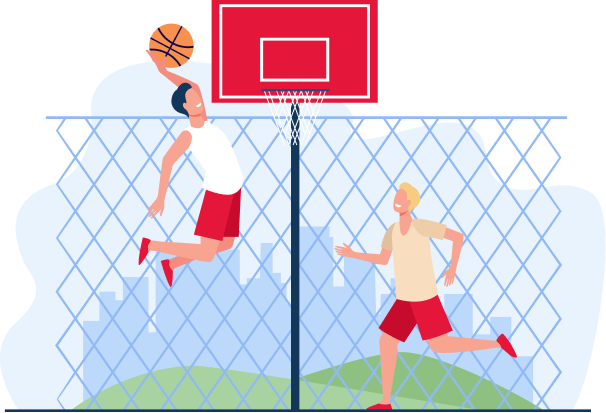
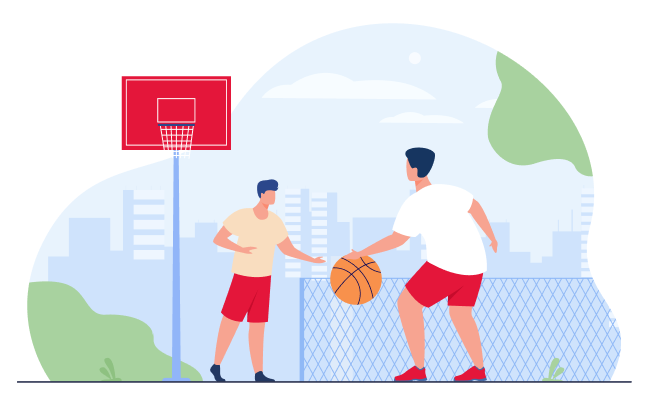
Register page init

diff --git a/src/pages/Login/Login.tsx b/src/pages/Login/Login.tsx
@@ -1,19 +1,20 @@
 import React, { FC } from "react";
-import { Link } from "@/components/UI/Link";
-import { Input } from "@/components/UI/Input";
-import { Button } from "@/components/UI/Button";
-import { Password } from "@/components/UI/Password";
+import { AuthLayout } from "@/layouts/AuthLayout";
 import { Typography } from "@/components/UI/Typography";
+import { Input } from "@/components/UI/Input";
+import { Password } from "@/components/UI/Password";
+import { Button } from "@/components/UI/Button";
+import { Link } from "@/components/UI/Link";
+import { yupResolver } from "@hookform/resolvers/yup";
 import { SubmitHandler, useForm, Controller } from "react-hook-form";
 import { addNotification } from "@/store/reducers/notificationReducer";
 import { validationSchema } from "@/pages/Login/schema";
-import { yupResolver } from "@hookform/resolvers/yup";
 import { ILoginRequest } from "@/models/ILogin";
 import { useNavigate } from "react-router-dom";
 import { useAppDispatch } from "@/hooks";
 import { login } from "@/api/login";
 import { AxiosError } from "axios";
-import Banner from "@/assets/image/im-sign-up-banner.png";
+import Banner from "@/assets/image/im-sign-in-banner.png";
 import styles from "./Login.module.sass";
 
 export const Login: FC = () => {
@@ -53,48 +54,43 @@ export const Login: FC = () => {
     };
 
     return (
-        <div className={styles.auth}>
-            <div className={styles.left}>
-                <form className={styles.form} onSubmit={handleSubmit(onSubmit)}>
-                    <Typography tag="h1" size="large" className={styles.title}>Sign In</Typography>
-                    <Controller
-                        control={control}
-                        name="login"
-                        render={({ field: { onChange, value }, fieldState: { error } }) => (
-                            <Input
-                                label="Login"
-                                value={value}
-                                onChange={onChange}
-                                className={styles.input}
-                                error={error?.message}
-                                fullWidth
-                            />
-                        )}
-                    />
-                    <Controller
-                        control={control}
-                        name="password"
-                        render={({ field: { onChange, value }, fieldState: { error } }) => (
-                            <Password
-                                label="Password"
-                                value={value}
-                                onChange={onChange}
-                                className={styles.input}
-                                error={error?.message}
-                                fullWidth
-                            />
-                        )}
-                    />
-                    <Button type="submit" fullWidth>Sign In</Button>
-                    <div className={styles.bottom}>
-                        <Typography className={styles.typography} color="secondary">Not a member yet?</Typography>
-                        <Link className={styles.link} to="/register">Sign up</Link>
-                    </div>
-                </form>
-            </div>
-            <div className={styles.right}>
-                <img className={styles.banner} src={Banner} alt="Banner"/>
-            </div>
-        </div>
+        <AuthLayout image={Banner}>
+            <form className={styles.form} onSubmit={handleSubmit(onSubmit)}>
+                <Typography tag="h1" size="large" className={styles.title}>Sign In</Typography>
+                <Controller
+                    control={control}
+                    name="login"
+                    render={({ field: { onChange, value }, fieldState: { error } }) => (
+                        <Input
+                            label="Login"
+                            value={value}
+                            onChange={onChange}
+                            className={styles.input}
+                            error={error?.message}
+                            fullWidth
+                        />
+                    )}
+                />
+                <Controller
+                    control={control}
+                    name="password"
+                    render={({ field: { onChange, value }, fieldState: { error } }) => (
+                        <Password
+                            label="Password"
+                            value={value}
+                            onChange={onChange}
+                            className={styles.input}
+                            error={error?.message}
+                            fullWidth
+                        />
+                    )}
+                />
+                <Button type="submit" fullWidth>Sign In</Button>
+                <div className={styles.bottom}>
+                    <Typography className={styles.typography} color="secondary">Not a member yet?</Typography>
+                    <Link className={styles.link} to="/register">Sign up</Link>
+                </div>
+            </form>
+        </AuthLayout>
     );
 };

diff --git a/src/pages/Register/Register.tsx b/src/pages/Register/Register.tsx
@@ -1,7 +1,113 @@
 import React, { FC } from "react";
+import { AuthLayout } from "@/layouts/AuthLayout";
+import { Typography } from "@/components/UI/Typography";
+import { Controller, SubmitHandler, useForm } from "react-hook-form";
+import { Input } from "@/components/UI/Input";
+import { Password } from "@/components/UI/Password";
+import { Button } from "@/components/UI/Button";
+import { Checkbox } from "@/components/UI/Checkbox";
+import { Link } from "@/components/UI/Link";
+import { yupResolver } from "@hookform/resolvers/yup";
+import { validationSchema } from "./schema";
+import { IRegisterFields } from "@/models/IRegister";
+import Banner from "@/assets/image/im-sign-up-banner.png";
+import styles from "./Register.module.sass";
 
-export const Register: FC = () => (
-    <div>
-        Register
-    </div>
-);
+export const Register: FC = () => {
+    const { control, handleSubmit } = useForm<IRegisterFields>({
+        resolver: yupResolver(validationSchema),
+        defaultValues: {
+            userName: "",
+            login: "",
+            password: "",
+            confirmPassword: "",
+            agreement: false
+        }
+    });
+
+    const onSubmit: SubmitHandler<IRegisterFields> = data => {
+        console.log(data);
+    };
+    
+    return (
+        <AuthLayout image={Banner}>
+            <form className={styles.form} onSubmit={handleSubmit(onSubmit)}>
+                <Typography tag="h1" size="large" className={styles.title}>Sign Up</Typography>
+                <Controller
+                    control={control}
+                    name="userName"
+                    render={({ field: { onChange, value }, fieldState: { error } }) => (
+                        <Input
+                            label="Name"
+                            value={value}
+                            onChange={onChange}
+                            className={styles.input}
+                            error={error?.message}
+                            fullWidth
+                        />
+                    )}
+                />
+                <Controller
+                    control={control}
+                    name="login"
+                    render={({ field: { onChange, value }, fieldState: { error } }) => (
+                        <Input
+                            label="Login"
+                            value={value}
+                            onChange={onChange}
+                            className={styles.input}
+                            error={error?.message}
+                            fullWidth
+                        />
+                    )}
+                />
+                <Controller
+                    control={control}
+                    name="password"
+                    render={({ field: { onChange, value }, fieldState: { error } }) => (
+                        <Password
+                            label="Password"
+                            value={value}
+                            onChange={onChange}
+                            className={styles.input}
+                            error={error?.message}
+                            fullWidth
+                        />
+                    )}
+                />
+                <Controller
+                    control={control}
+                    name="confirmPassword"
+                    render={({ field: { onChange, value }, fieldState: { error } }) => (
+                        <Password
+                            label="Enter your password again"
+                            value={value}
+                            onChange={onChange}
+                            className={styles.input}
+                            error={error?.message}
+                            fullWidth
+                        />
+                    )}
+                />
+                <Controller
+                    control={control}
+                    name="agreement"
+                    render={({ field: { onChange, value }, fieldState: { error } }) => (
+                        <Checkbox
+                            label="I accept the agreement"
+                            value={value}
+                            onChange={onChange}
+                            className={styles.checkbox}
+                            error={error?.message}
+                        />
+                    )}
+                />
+                <Button type="submit" fullWidth>Sign Up</Button>
+                <div className={styles.bottom}>
+                    <Typography className={styles.typography} color="secondary">Already a member?</Typography>
+                    <Link className={styles.link} to="/login">Sign in</Link>
+                </div>
+            </form>
+        </AuthLayout>
+    );
+};

diff --git a/src/pages/Register/schema.ts b/src/pages/Register/schema.ts
@@ -1,0 +1,25 @@
+import * as Yup from "yup";
+import { IRegisterFields } from "@/models/IRegister";
+
+export const validationSchema = Yup.object<Record<keyof IRegisterFields, Yup.AnySchema>>({
+    login: Yup.string()
+        .trim()
+        .required("Required")
+        .matches(/^[a-zA-Z]+$/, "Invalid character entered")
+        .min(5, "Login must be at least 5 characters")
+        .max(24, "Login must be at most 24 characters"),
+    password: Yup.string()
+        .trim()
+        .required("Required")
+        .matches(/^[a-zA-Z0-9]+$/, "Invalid character entered")
+        .min(5, "Password must be at least 5 characters")
+        .max(24, "Password must be at most 24 characters"),
+    confirmPassword: Yup.string()
+        .oneOf([Yup.ref("password"), null], "Passwords must match"),
+    userName: Yup.string()
+        .required("Required")
+        .min(5, "Name must be at least 5 characters")
+        .max(24, "Name must be at most 24 characters"),
+    agreement: Yup.boolean()
+        .oneOf([true], "You must be accept the agreement")
+});

diff --git a/src/components/UI/Checkbox/Checkbox.tsx b/src/components/UI/Checkbox/Checkbox.tsx
@@ -6,13 +6,17 @@ interface Props {
     label: string
     value: boolean
     onChange: React.ChangeEventHandler<HTMLInputElement>
+    className?: string
+
+    // all other props
+    [x: string]: any
 }
 
 export const Checkbox: FC<Props> = (props) => {
-    const { label, value, onChange } = props;
+    const { label, value, onChange, className, ...rest } = props;
     
     return (
-        <label className={styles.checkbox}>
+        <label className={classNames(styles.checkbox, className)} {...rest}>
             <span className={classNames(styles.mark, { [styles.checked]: value })}/>
             <input type="checkbox" checked={value} onChange={onChange} />
             {label}

diff --git a/src/layouts/AuthLayout/AuthLayout.tsx b/src/layouts/AuthLayout/AuthLayout.tsx
@@ -1,0 +1,22 @@
+import React, { FC } from "react";
+import styles from "./AuthLayout.module.sass";
+
+interface Props {
+    image: string
+    children: React.ReactNode
+}
+
+export const AuthLayout: FC<Props> = (props) => {
+    const { image, children } = props;
+
+    return (
+        <div className={styles.auth}>
+            <div className={styles.left}>
+                {children}
+            </div>
+            <div className={styles.right}>
+                <img className={styles.banner} src={image} alt="banner"/>
+            </div>
+        </div>
+    );
+};

diff --git a/src/layouts/AuthLayout/AuthLayout.module.sass b/src/layouts/AuthLayout/AuthLayout.module.sass
@@ -1,0 +1,29 @@
+@import "@/styles/sass/index.sass"
+
+.auth
+  display: flex
+  width: 100%
+  height: 100vh
+
+.left
+  display: flex
+  padding: 0 120px
+  align-items: center
+  justify-content: center
+  +breakpointDown($device--desktop-l)
+    width: 100%
+    padding: 0 20px
+
+.right
+  flex-grow: 1
+  display: flex
+  align-items: center
+  justify-content: center
+  background-color: $light-blue
+  +breakpointDown($device--desktop-l)
+    display: none
+
+.banner
+  display: block
+  max-width: 600px
+  margin: 0 40px

diff --git a/src/models/IRegister.ts b/src/models/IRegister.ts
@@ -1,0 +1,22 @@
+interface IRegisterRequest {
+    userName: string
+    login: string
+    password: string
+}
+
+interface IRegisterResponse {
+    name: string
+    avatarUrl: string
+    token: string
+}
+
+interface IRegisterFields extends IRegisterRequest {
+    confirmPassword: string
+    agreement: boolean
+}
+
+export type {
+    IRegisterFields,
+    IRegisterRequest,
+    IRegisterResponse
+};

diff --git a/src/pages/Register/Register.module.sass b/src/pages/Register/Register.module.sass
@@ -22,3 +22,6 @@
   .link
     display: inline-block
     margin-left: 5px
+
+  .checkbox
+    margin-bottom: 25px

diff --git a/src/layouts/AuthLayout/index.ts b/src/layouts/AuthLayout/index.ts
@@ -1,0 +1,1 @@
+export * from "./AuthLayout";
